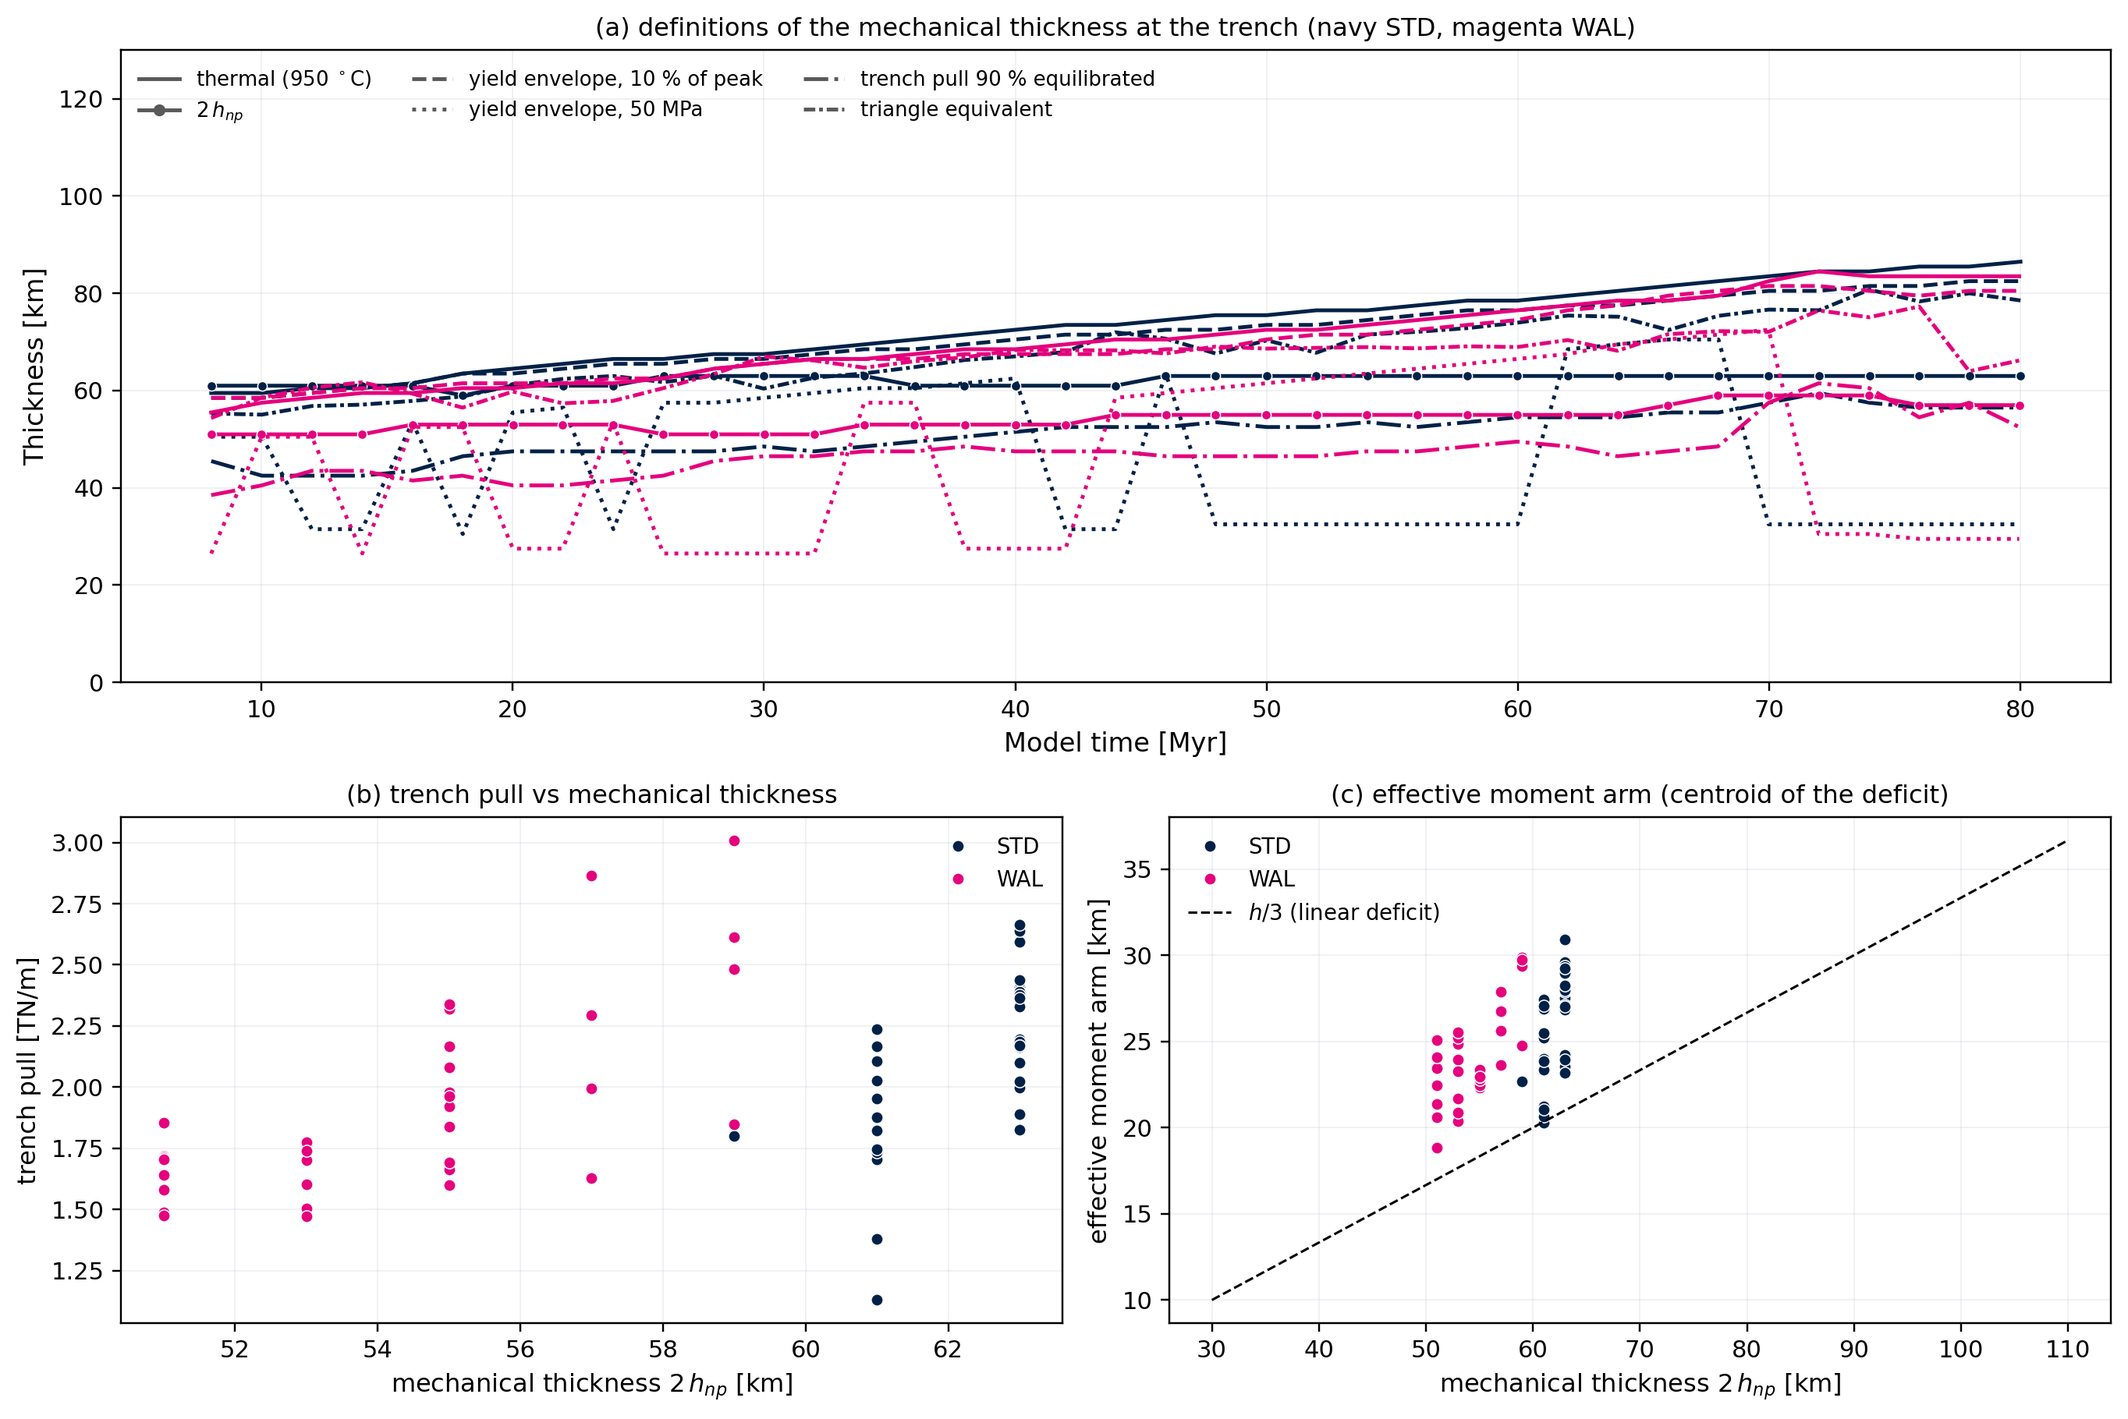
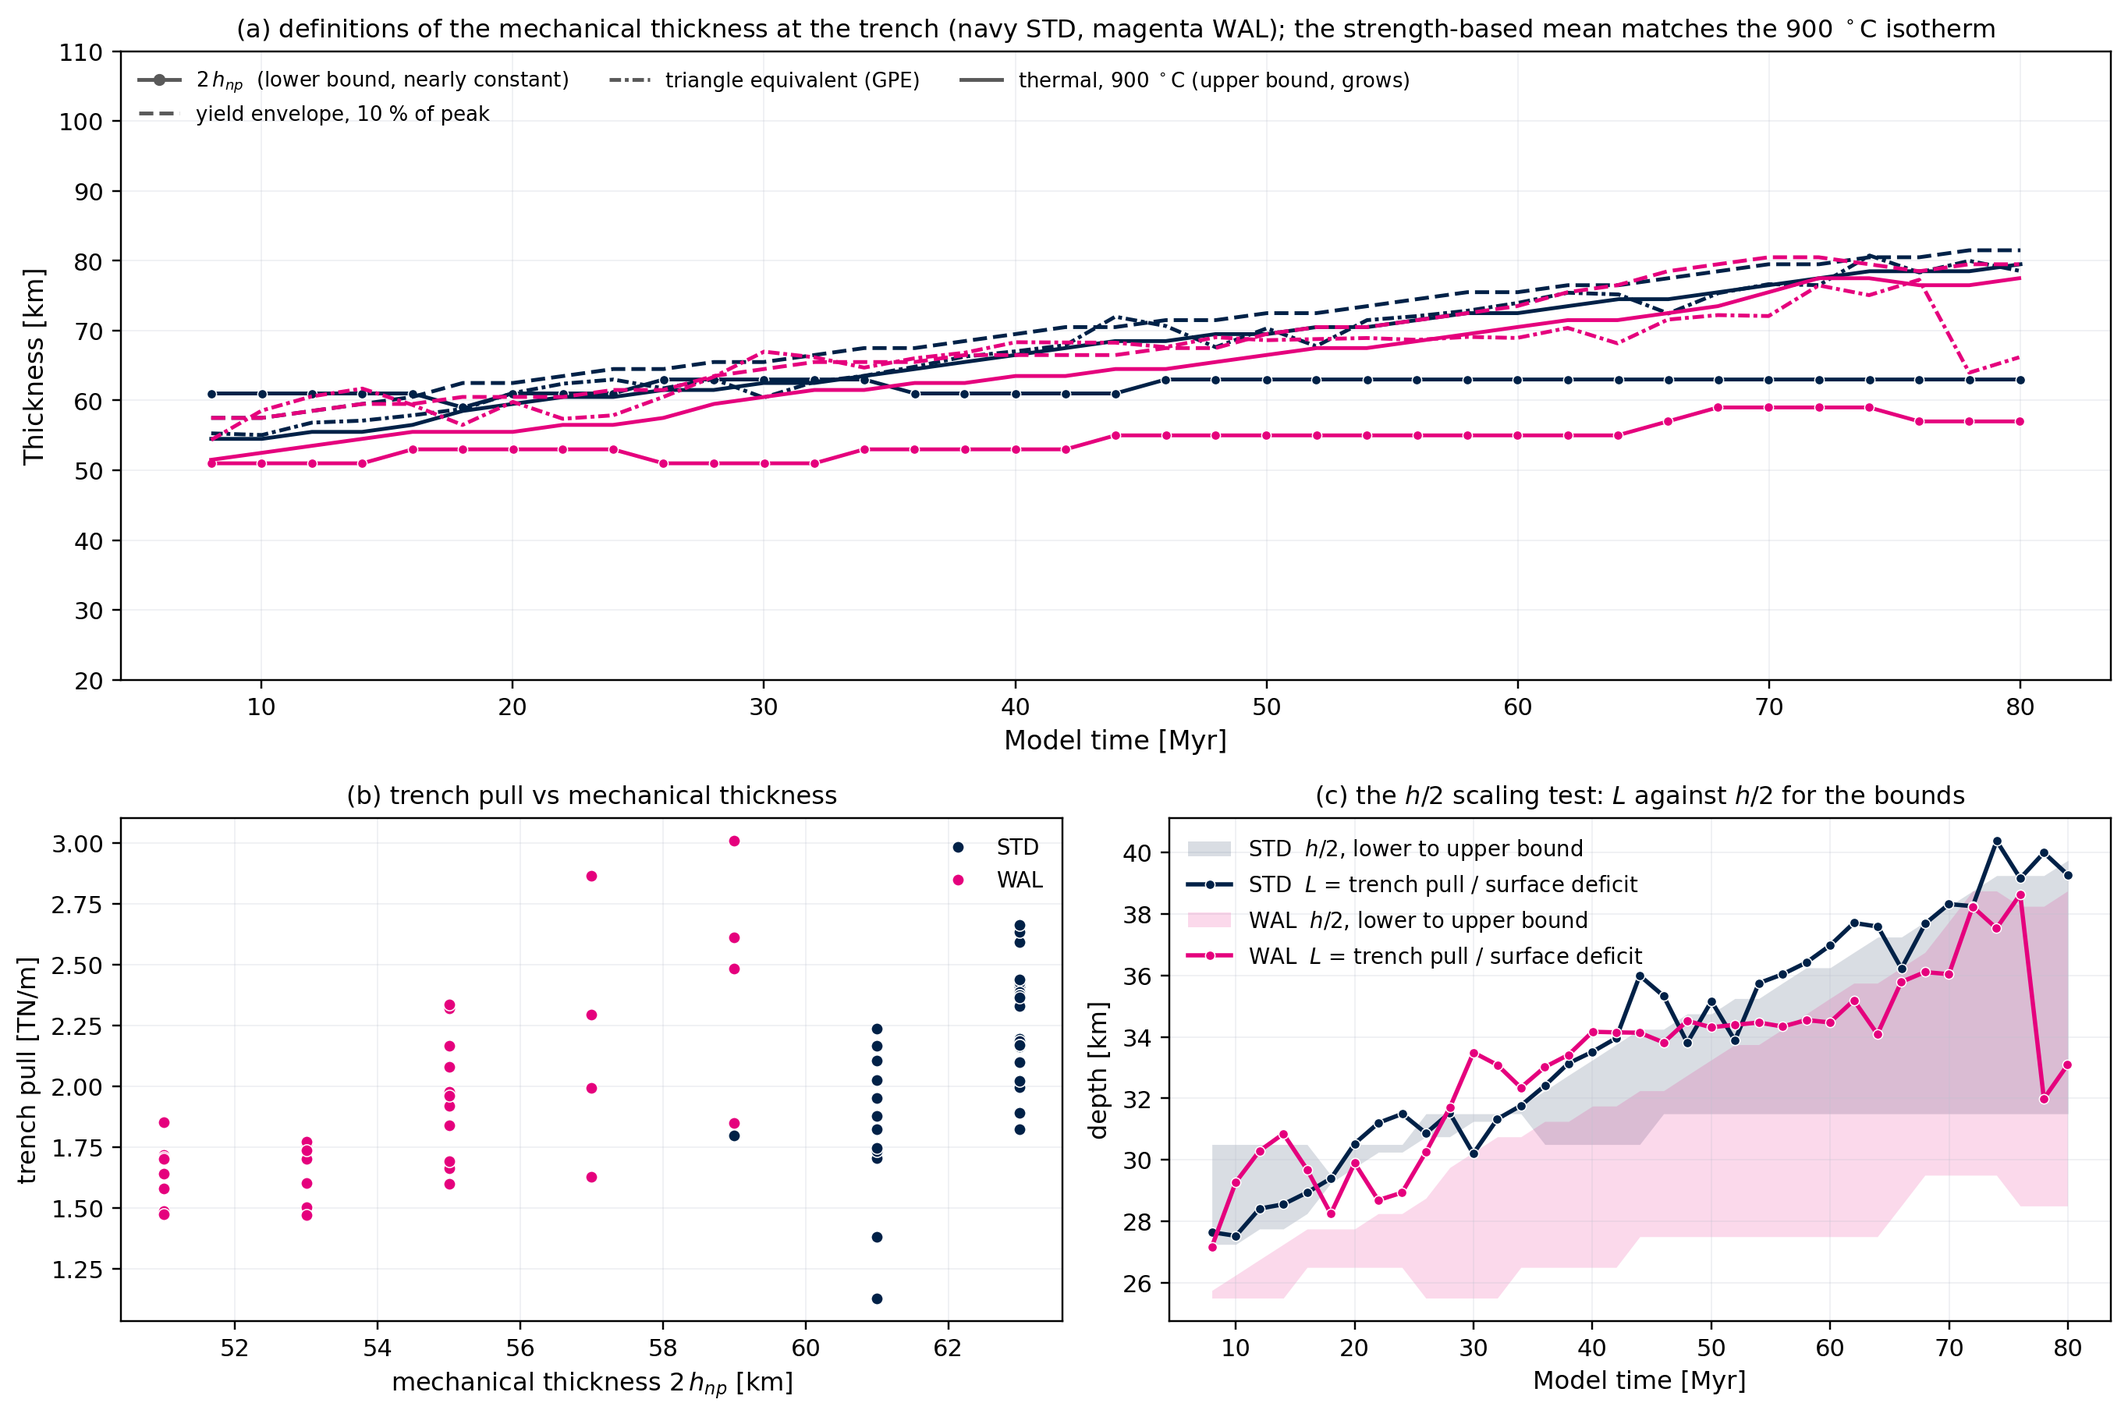
mechanical thickness: bottom-up yield search, 900 C isotherm, h/2 scaling test; force length scale
Fixes and additions per Dan, 2026-09-16:
- Yield-envelope definitions now evaluated FROM THE BOTTOM UP (deepest
  level still exceeding the threshold). Searching down from the neutral
  plane landed in the envelope's own zero crossing -- a ~1 km window on
  this grid -- which is why 50 MPa returned 33 km. Corrected: 63/58 km.
- Figure trimmed to four definitions (2 h_np, yield-10 %, triangle,
  thermal); yield-50 MPa and the 90 %-equilibration depth stay in the
  table.
- Thermal definition moved to 900 C: the isotherm matching the mean of
  the strength-based definitions (measured 898/892). The suite's 950 C
  (conventions 5.2) is ~5 km too deep by this test.
- THE h/2 SCALING TEST (Dan's fundamental proposition, 0.55 h in static
  bending models): L = trench pull / surface deficit = 33.9/33.8 km in
  the two models. L/h = 0.549 (STD) / 0.622 (WAL) for 2 h_np; 0.505/0.516
  for the 900 C isotherm; 0.46/0.47 for 950 C -- which is how 950 C is
  ruled out. Panel (c) now plots L against h/2 for the bounds; the
  centroid of the deficit (27/23 km) is a different quantity and is kept
  only in the table.
- NEW fig_force_length_scale: force per unit topography as a length
  ('force admittance'). Trench 33.2/33.4 km vs ridge-in-the-balance
  34.5/33.6 and static ridge 55.4/45.0 km; conversion rates 1.07-1.08
  GN/m per metre (trench) vs 1.46-1.79 (static ridge).

diff --git a/scripts/fig_mechanical_thickness.py b/scripts/fig_mechanical_thickness.py
@@ -48,7 +48,11 @@ import column_profiles_cache as cpc
 ROOT = os.path.dirname(os.path.dirname(os.path.abspath(__file__)))
 C = {'STD': '#002147', 'WAL': '#E5007D'}
 C_RULE = '#BFC3D1'
-T_MECH_C = 950.0           # conventions §5.2 mechanical base isotherm
+T_MECH_C = 900.0           # the isotherm matching the strength-based definitions
+                           # (measured 898 STD / 892 WAL -> 900, Dan 2026-09-16).
+                           # The suite convention is 950 C (conventions §5.2), which
+                           # this analysis says is ~5 km too deep: it fails the h/2
+                           # scaling test at L/h = 0.46-0.47 where 900 C gives 0.51.
 YIELD_FRAC = 0.10          # Dan's scale-free threshold
 YIELD_ABS_MPA = 50.0       # McNutt & Menard
 TP_FRAC = 0.90             # trench-pull equilibration level
@@ -62,7 +66,8 @@ def thicknesses(d, key):
     fib = d[f'{key}_sxx_T'] - d[f'{key}_szz_T']        # fibre stress, Pa
     temp = d[f'{key}_temp_T'] - 273.0
     out = {k: [] for k in ('thermal', 'np2', 'yield10', 'yield50', 'tp90',
-                           'triangle', 'arm', 'trench_pull')}
+                           'triangle', 'arm', 'trench_pull', 'h_strength',
+                           'T_strength')}
     for i in range(len(c['t'])):
         f = sm(fib[i])
         # thermal
@@ -73,13 +78,17 @@ def thicknesses(d, key):
         w = (z >= 5e3) & (z <= 60e3)
         h_np = z[w][int(np.argmax(np.abs(cfib[w])))]
         out['np2'].append(2 * h_np)
-        # yield-envelope thresholds, below the neutral plane
+        # yield-envelope thresholds, evaluated FROM THE BOTTOM UP (Dan,
+        # 2026-09-16): the base is the DEEPEST level at which the envelope
+        # still exceeds the threshold. Searching downward from the neutral
+        # plane instead lands in the zero crossing of the envelope itself
+        # — a ~1 km window on this grid — and returns h_np, not the base.
         peak = np.abs(f[(z > 2e3) & (z < 80e3)]).max()
-        deep = z > h_np
-        k10 = np.where(deep & (np.abs(f) < YIELD_FRAC * peak))[0]
-        k50 = np.where(deep & (np.abs(f) < YIELD_ABS_MPA * 1e6))[0]
-        out['yield10'].append(z[k10[0]] if len(k10) else np.nan)
-        out['yield50'].append(z[k50[0]] if len(k50) else np.nan)
+        deep = z < 150e3
+        k10 = np.where(deep & (np.abs(f) >= YIELD_FRAC * peak))[0]
+        k50 = np.where(deep & (np.abs(f) >= YIELD_ABS_MPA * 1e6))[0]
+        out['yield10'].append(z[k10[-1]] if len(k10) else np.nan)
+        out['yield50'].append(z[k50[-1]] if len(k50) else np.nan)
         # trench-pull equilibration and the moment arm
         pT = sm(c['p_T'][i])                    # pressure register (deficit negative)
         dfc = -pT                                # deficit, positive
@@ -92,6 +101,11 @@ def thicknesses(d, key):
         dP_T = np.abs(dfc[z <= 75e3]).max()
         out['triangle'].append(2 * total / dP_T)
         out['arm'].append(np.trapz(dfc[zc] * z[zc], z[zc]) / total)
+        # the isotherm that matches the mean of the three strength-based
+        # definitions (Dan, 2026-09-16): 2 h_np, yield-10 %, triangle
+        h_bar = np.nanmean([out['np2'][-1], out['yield10'][-1], out['triangle'][-1]])
+        out['h_strength'].append(h_bar)
+        out['T_strength'].append(np.interp(h_bar, z, temp[i]))
     out = {k: np.array(v) for k, v in out.items()}
     out['t'] = c['t']
     return out
@@ -107,12 +121,12 @@ def main():
     ax_t = fig.add_subplot(gs[0, :])
     ax_p = fig.add_subplot(gs[1, 0])
     ax_a = fig.add_subplot(gs[1, 1])
-    styles = [('thermal', '-', 'thermal (950 $^\\circ$C)'),
-              ('np2', '-o', r'$2\,h_{np}$'),
+    # Trimmed to the four informative definitions (Dan, 2026-09-16);
+    # yield-50 MPa and the 90 %-equilibration depth remain in the table.
+    styles = [('np2', '-o', r'$2\,h_{np}$  (lower bound, nearly constant)'),
               ('yield10', '--', 'yield envelope, 10 % of peak'),
-              ('yield50', ':', 'yield envelope, 50 MPa'),
-              ('tp90', '-.', 'trench pull 90 % equilibrated'),
-              ('triangle', (0, (3, 1, 1, 1)), 'triangle equivalent')]
+              ('triangle', (0, (3, 1, 1, 1)), 'triangle equivalent (GPE)'),
+              ('thermal', '-', 'thermal, 900 $^\\circ$C (upper bound, grows)')]
     rows = [('model', 'quantity', 'value')]
     for key in ('STD', 'WAL'):
         col = C[key]
@@ -129,26 +143,47 @@ def main():
                      (key, f'h_{name}_q3_km', f'{np.nanpercentile(r[name], 75)/1e3:.1f}')]
         ax_p.plot(r['np2'] / 1e3, r['trench_pull'] / 1e12, 'o', color=col, ms=5,
                   markeredgecolor='white', markeredgewidth=0.5, label=key)
-        ax_a.plot(r['np2'] / 1e3, r['arm'] / 1e3, 'o', color=col, ms=5,
-                  markeredgecolor='white', markeredgewidth=0.5, label=key)
+        # (c) the effective moment arm against h/2 for the two bounds
+        ax_a.fill_between(r['t'], r['np2'] / 2e3, r['thermal'] / 2e3, color=col,
+                          alpha=0.15, lw=0,
+                          label=f'{key}  $h/2$, lower to upper bound')
+        L = r['triangle'] / 2                      # = trench pull / surface deficit
+        ax_a.plot(r['t'], L / 1e3, '-o', color=col, lw=1.8, ms=4,
+                  markeredgecolor='white', markeredgewidth=0.5,
+                  label=f'{key}  $L$ = trench pull / surface deficit')
         ratio = r['arm'] / r['np2']
-        rows += [(key, 'moment_arm_median_km', f'{np.nanmedian(r["arm"])/1e3:.1f}'),
+        rows += [(key, 'strength_mean_thickness_km', f'{np.nanmedian(r["h_strength"])/1e3:.1f}'),
+                 (key, 'matching_isotherm_C', f'{np.nanmedian(r["T_strength"]):.0f}'),
+                 (key, 'h_yield50_median_km', f'{np.nanmedian(r["yield50"])/1e3:.1f}'),
+                 (key, 'h_tp90_median_km', f'{np.nanmedian(r["tp90"])/1e3:.1f}'),
+                 (key, 'moment_arm_median_km', f'{np.nanmedian(r["arm"])/1e3:.1f}'),
                  (key, 'moment_arm_over_h_median', f'{np.nanmedian(ratio):.3f}'),
+                 (key, 'L_scaling_km_median', f'{np.nanmedian(r["triangle"]/2)/1e3:.2f}'),
+                 (key, 'L_over_h_np2', f'{np.nanmedian(r["triangle"]/2/r["np2"]):.3f}'),
+                 (key, 'L_over_h_yield10', f'{np.nanmedian(r["triangle"]/2/r["yield10"]):.3f}'),
+                 (key, 'L_over_h_thermal900', f'{np.nanmedian(r["triangle"]/2/r["thermal"]):.3f}'),
+                 (key, 'L_over_h_strengthmean', f'{np.nanmedian(r["triangle"]/2/r["h_strength"]):.3f}'),
                  (key, 'trench_pull_median_TNm', f'{np.nanmedian(r["trench_pull"])/1e12:.3f}')]
         print(f'=== {key} === (run medians, km)')
         for name, _, lab in styles:
             print(f'   {lab:34s} {np.nanmedian(r[name])/1e3:5.1f}  '
                   f'(IQR {np.nanpercentile(r[name],25)/1e3:.0f}–{np.nanpercentile(r[name],75)/1e3:.0f})')
-        print(f'   effective moment arm               {np.nanmedian(r["arm"])/1e3:5.1f} km '
-              f'= {np.nanmedian(ratio):.2f} x (2 h_np)')
-    hh = np.linspace(30, 110, 50)
-    ax_a.plot(hh, hh / 3, 'k--', lw=1.0, label='$h/3$ (linear deficit)')
+        Lk = r['triangle'] / 2
+        print(f'   L (trench pull / surface deficit)  {np.nanmedian(Lk)/1e3:5.1f} km')
+        print(f'   h/2 scaling test  L/h: 2h_np {np.nanmedian(Lk/r["np2"]):.3f}, '
+              f'yield10 {np.nanmedian(Lk/r["yield10"]):.3f}, '
+              f'thermal900 {np.nanmedian(Lk/r["thermal"]):.3f}, '
+              f'strength-mean {np.nanmedian(Lk/r["h_strength"]):.3f}')
+        print(f'   centroid of the deficit (a different quantity) '
+              f'{np.nanmedian(r["arm"])/1e3:.1f} km')
+
     ax_t.set_ylabel('Thickness [km]', fontsize=11)
     ax_t.set_xlabel('Model time [Myr]', fontsize=11)
     ax_t.set_title('(a) definitions of the mechanical thickness at the trench '
-                   '(navy STD, magenta WAL)', fontsize=10.5)
+                   '(navy STD, magenta WAL); the strength-based mean matches '
+                   'the 900 $^\\circ$C isotherm', fontsize=10.5)
     ax_t.grid(alpha=0.25, color=C_RULE, lw=0.6)
-    ax_t.set_ylim(0, 130)
+    ax_t.set_ylim(20, 110)
     for _, ls, lab in styles:
         if ls == '-o':
             ax_t.plot([], [], '-o', color='0.35', lw=1.6, ms=4, label=lab)
@@ -158,9 +193,10 @@ def main():
     ax_p.set_xlabel(r'mechanical thickness $2\,h_{np}$ [km]', fontsize=10.5)
     ax_p.set_ylabel('trench pull [TN/m]', fontsize=10.5)
     ax_p.set_title('(b) trench pull vs mechanical thickness', fontsize=10.5)
-    ax_a.set_xlabel(r'mechanical thickness $2\,h_{np}$ [km]', fontsize=10.5)
-    ax_a.set_ylabel('effective moment arm [km]', fontsize=10.5)
-    ax_a.set_title('(c) effective moment arm (centroid of the deficit)', fontsize=10.5)
+    ax_a.set_xlabel('Model time [Myr]', fontsize=10.5)
+    ax_a.set_ylabel('depth [km]', fontsize=10.5)
+    ax_a.set_title('(c) the $h/2$ scaling test: $L$ against $h/2$ for the bounds',
+                   fontsize=10.5)
     for ax in (ax_p, ax_a):
         ax.grid(alpha=0.25, color=C_RULE, lw=0.6)
         ax.legend(frameon=False, fontsize=9)

diff --git a/scripts/fig_force_length_scale.py b/scripts/fig_force_length_scale.py
@@ -1,0 +1,114 @@
+"""fig_force_length_scale — the force a topographic perturbation delivers,
+expressed as a length scale ("force admittance").
+
+Writes figures/fig_force_length_scale.png and tables/force_length_scale.csv
+from the committed column-profile cache.
+
+The idea (Dan, 2026-09-16), by analogy with gravitational admittance: a
+gravitational admittance says how much gravity signal a metre of
+topography produces. Here we ask how much FORCE a metre of topography
+produces. Because the force is a stress resultant and the surface load is
+a stress, their ratio is a LENGTH:
+
+    L = (force per unit distance) / (surface stress anomaly)
+      = int (Delta sigma_zz) dz / (Delta rho g w)
+
+so L is the depth over which the surface load would have to act at full
+amplitude to deliver the measured force. It is the same quantity as the
+"conversion rate" of the Earth-budget discussion divided by Delta rho g.
+
+Three length scales, per snapshot:
+  trench          trench pull / (trench pressure deficit at the surface).
+                  Identically half the triangle-equivalent thickness, so
+                  this is a direct restatement of the trench-pull scaling.
+  ridge, dynamic  the x_I-to-ridge term that enters the force balance,
+                  divided by the ridge surface anomaly
+  ridge, static   the same for the static ridge push (back-tilt removed,
+                  read from the plateau of the cumulative integral)
+
+The comparison is the point: isostatically compensated topography
+converts to force inefficiently (the compensating mass cancels most of
+the column difference), whereas the trench's non-isostatic deficit
+converts over most of the mechanical thickness.
+
+DRAFT CAPTION. The force delivered per unit of surface topography,
+expressed as a length scale, through the runs for STD (navy) and WAL
+(magenta): the trench (solid), the ridge term that enters the force
+balance (dashed), and the static ridge push with the back-tilt removed
+(dotted). A larger length scale means topography that converts to
+driving force more efficiently.
+"""
+import os, sys
+import numpy as np
+import matplotlib
+matplotlib.use('Agg')
+import matplotlib.pyplot as plt
+from scipy.ndimage import gaussian_filter1d
+
+sys.path.insert(0, os.path.dirname(os.path.abspath(__file__)))
+import column_profiles_cache as cpc
+
+ROOT = os.path.dirname(os.path.dirname(os.path.abspath(__file__)))
+C = {'STD': '#002147', 'WAL': '#E5007D'}
+C_RULE = '#BFC3D1'
+RHO_G = 3300.0 * 9.8          # Delta rho g (no ocean in these models)
+
+def main():
+    d = cpc.load()
+    fig, ax = plt.subplots(figsize=(9.5, 5.6))
+    rows = [('model', 'quantity', 'value')]
+    for key in ('STD', 'WAL'):
+        col = C[key]
+        c = cpc.derive(d, key)
+        p = cpc.partition(d, key)
+        z = c['z']
+        shallow = z <= 20e3
+        sm = lambda a: gaussian_filter1d(a, 2)
+        # surface stress anomalies = Delta rho g x (surface relief)
+        s_T = np.array([np.abs(sm(a)[shallow]).max() for a in c['p_T']])
+        s_R = np.array([sm(a)[shallow].max() for a in c['p_R']])
+        cum = lambda a: np.concatenate([[0.0], np.cumsum(0.5 * (a[1:] + a[:-1]) * np.diff(z))])
+        tp = np.array([np.interp(zs, z, -cum(sm(a)))
+                       for a, zs in zip(c['p_T'], p['z_star'])])
+        L_T = tp / s_T / 1e3
+        L_Rd = p['measured'] / s_R / 1e3
+        L_Rs = p['static'] / s_R / 1e3
+        t = p['t']
+        ax.plot(t, L_T, '-o', color=col, lw=2.0, ms=4.5, markeredgecolor='white',
+                markeredgewidth=0.5, label=f'{key}  trench')
+        ax.plot(t, L_Rd, '--', color=col, lw=1.6, label=f'{key}  ridge (in the balance)')
+        ax.plot(t, L_Rs, ':', color=col, lw=1.8, label=f'{key}  ridge (static)')
+        print(f'{key}: length scale [km] — trench {np.median(L_T):.1f} '
+              f'(IQR {np.percentile(L_T,25):.0f}–{np.percentile(L_T,75):.0f}); '
+              f'ridge dynamic {np.median(L_Rd):.1f}; ridge static {np.median(L_Rs):.1f}')
+        print(f'   implied relief [m]: trench {np.median(s_T)/RHO_G:.0f}, '
+              f'ridge {np.median(s_R)/RHO_G:.0f}')
+        print(f'   conversion rate [GN/m per metre]: trench {RHO_G*np.median(L_T)*1e3/1e9:.2f}, '
+              f'ridge dynamic {RHO_G*np.median(L_Rd)*1e3/1e9:.2f}, '
+              f'ridge static {RHO_G*np.median(L_Rs)*1e3/1e9:.2f}')
+        for name, arr in (('L_trench_km', L_T), ('L_ridge_dynamic_km', L_Rd),
+                          ('L_ridge_static_km', L_Rs),
+                          ('relief_trench_m', s_T / RHO_G),
+                          ('relief_ridge_m', s_R / RHO_G)):
+            rows += [(key, f'{name}_median', f'{np.median(arr):.2f}'),
+                     (key, f'{name}_q1', f'{np.percentile(arr, 25):.2f}'),
+                     (key, f'{name}_q3', f'{np.percentile(arr, 75):.2f}')]
+    ax.set_xlabel('Model time [Myr]', fontsize=12)
+    ax.set_ylabel('force per unit topography, as a length [km]', fontsize=12)
+    ax.grid(alpha=0.25, color=C_RULE, lw=0.6)
+    ax.legend(frameon=False, fontsize=9, ncol=2)
+    ax.set_title('How efficiently topography converts to driving force:\n'
+                 'trench (non-isostatic) against ridge (isostatically compensated)',
+                 fontsize=11)
+    fig.tight_layout()
+    out = os.path.join(ROOT, 'figures', 'fig_force_length_scale.png')
+    fig.savefig(out, bbox_inches='tight', dpi=220)
+    print('written:', out)
+    os.makedirs(os.path.join(ROOT, 'tables'), exist_ok=True)
+    tab = os.path.join(ROOT, 'tables', 'force_length_scale.csv')
+    with open(tab, 'w') as f:
+        f.write('\n'.join(','.join(x) for x in rows) + '\n')
+    print('written:', tab)
+
+if __name__ == '__main__':
+    main()
